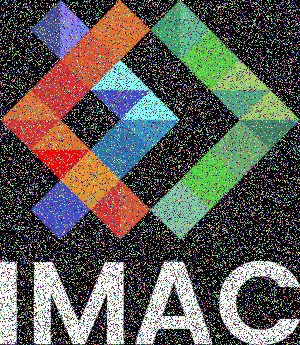
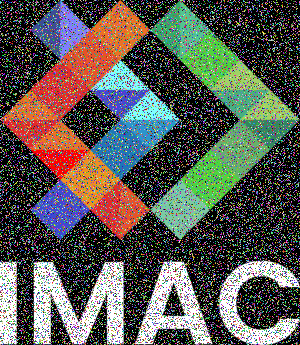
added lumino

diff --git a/src/main.cpp b/src/main.cpp
@@ -1,6 +1,7 @@
 #include <sil/sil.hpp>
 #include <random.hpp>
 #include <iostream>
+#include <math.h>
 
 void keep_green_only(sil::Image& image) 
 {
@@ -112,6 +113,21 @@ void addNoise(sil::Image& image)
     }
 }
 
+void changeLuminosity(sil::Image& image, float lumino)
+{
+    for (glm::vec3& color : image.pixels())
+    {
+        color.r = pow(color.r, lumino); 
+        color.b = pow(color.b, lumino);
+        color.g = pow(color.g, lumino);
+        /*color.g = pow(color.g, 1/2); 
+        color.b = pow(color.b, 1/2); */
+        /*color.r = color.r + exp (color.r);
+        color.g = color.g + exp (color.g);
+        color.b = color.b + exp (color.b);*/
+    }
+}
+
 int main()
 {
     /*{
@@ -157,5 +173,11 @@ int main()
         sil::Image image{"images/logo.png"};
         addNoise(image); 
         image.save("output/noise.png"); 
+    }
+
+    {
+        sil::Image image{"images/photo.jpg"};
+        changeLuminosity(image, 0.5); /* change value here to change luminosity */
+        image.save("output/changed-luminosity.png"); 
     }
 }
